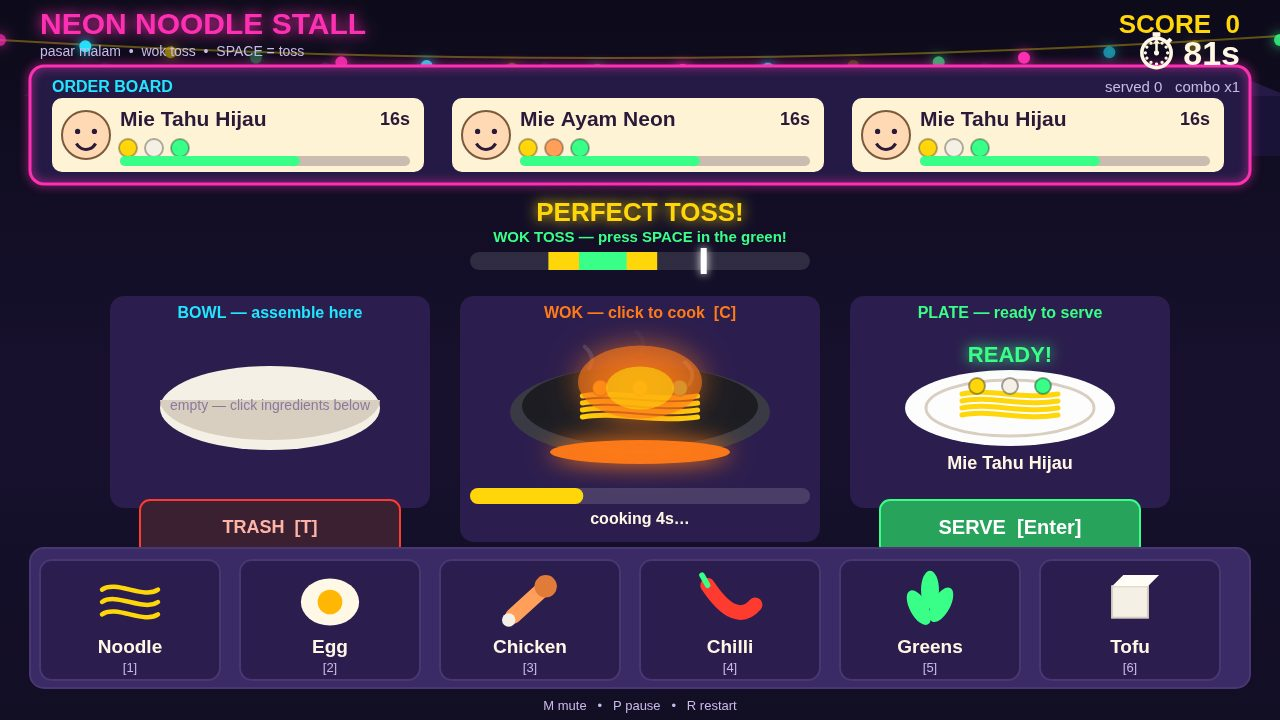
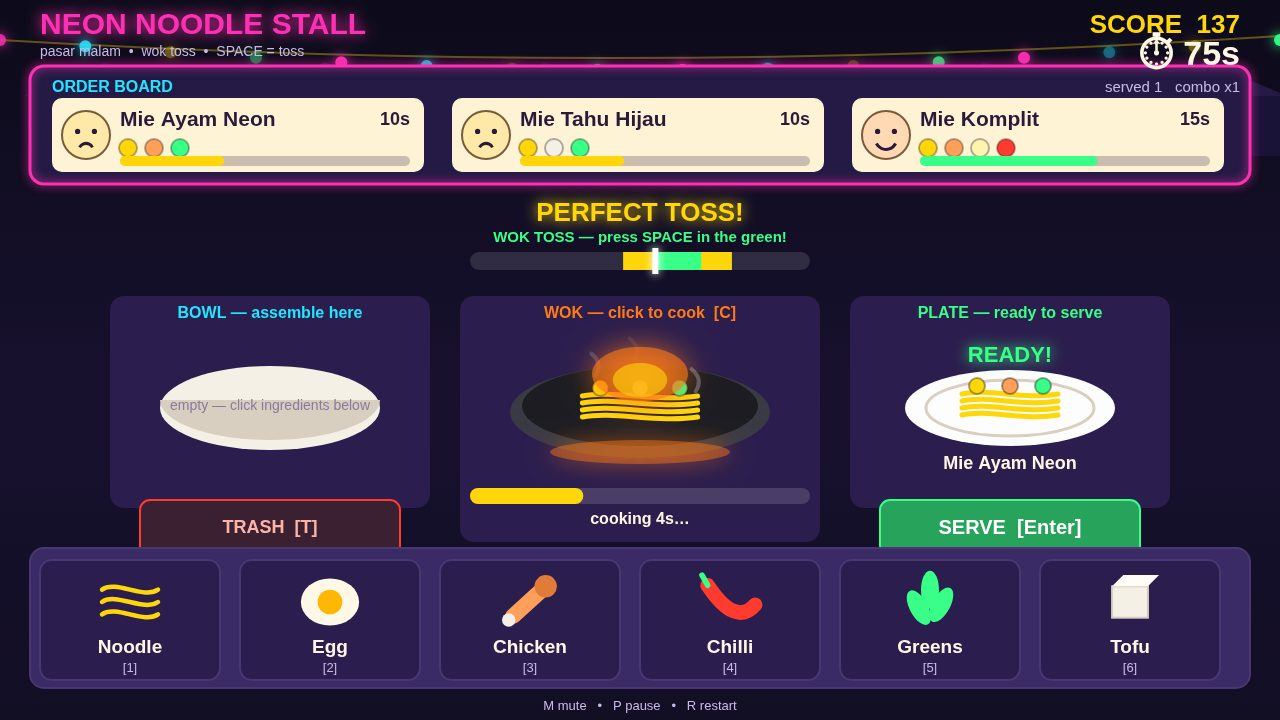
Shots: stage cover + serve through real serve rules (score 137/385), shrink toss flame so noodles stay visible

diff --git a/game/src/shots.js b/game/src/shots.js
@@ -35,17 +35,23 @@ function fillBoard(world) {
 }
 
 // Wide cover: 3 tickets, wok mid-cook with steam, one plated dish ready,
-// full HUD — all six required elements in one frame.
+// full HUD — all six required elements in one frame. Staged by playing
+// the real rules: serve dish one (score > 0), plate dish two, cook dish
+// three halfway with a perfect toss.
 function stageWide(world) {
   startGame(world);
   fillBoard(world);
   const first = world.tickets[0].recipeId;
   const second = world.tickets[1].recipeId;
-  cookRecipe(world, first, 6.5); // finishes cooking -> plated, ready to serve
-  const secondRecipe = RECIPE_BY_ID[second];
-  // Bowl the second dish in full, then cook it halfway: wok mid-cook with
-  // steam while the first dish waits on the plate.
-  for (const id of secondRecipe.ingredients) addIngredient(world, id);
+  const third = world.tickets[2].recipeId;
+  cookRecipe(world, first, 6.5); // finishes cooking -> plated
+  serve(world); // real serve: score > 0, served 1
+  fillBoard(world);
+  cookRecipe(world, second, 6.5); // finishes cooking -> plated, ready to serve
+  // Third dish mid-cook in the wok with steam + a perfect toss,
+  // while the second dish waits on the plate.
+  const thirdRecipe = RECIPE_BY_ID[third];
+  for (const id of thirdRecipe.ingredients) addIngredient(world, id);
   startCooking(world);
   stepSeconds(world, 3.0);
   perfectToss(world);
@@ -72,16 +78,21 @@ function stageAssembly(world) {
   return { screen: 'play', fx: { flame: 1 } };
 }
 
-// Serve: a plated dish, happy customer, score and combo on the board.
+// Serve: two dishes really served (score, served count and combo all
+// earned through the real serve rules), third dish plated and ready.
 function stageServe(world) {
   startGame(world);
   fillBoard(world);
   const first = world.tickets[0].recipeId;
-  cookRecipe(world, first, 6.5); // plated and ready
-  world.score = 240;
-  world.served = 2;
-  world.combo = 3;
-  world.bestCombo = 3;
+  const second = world.tickets[1].recipeId;
+  const third = world.tickets[2].recipeId;
+  cookRecipe(world, first, 6.5); // plated
+  serve(world); // served 1
+  fillBoard(world);
+  cookRecipe(world, second, 6.5); // plated
+  serve(world); // served 2, combo grows
+  fillBoard(world);
+  cookRecipe(world, third, 6.5); // plated and ready
   stepSeconds(world, 0.5);
   return { screen: 'play', fx: { flame: 0 } };
 }

diff --git a/game/src/render.js b/game/src/render.js
@@ -464,11 +464,12 @@ function drawWokStation(ctx, world, pointer, fx) {
     ctx.shadowColor = COLORS.neonOrange;
     ctx.shadowBlur = 30;
     ctx.beginPath();
-    ctx.ellipse(cx, cy - 30, 70 * fx.flame + 20, 44 * fx.flame + 10, 0, 0, Math.PI * 2);
+    // Flame sits above the noodle pile, not over it, so the dish stays visible.
+    ctx.ellipse(cx, cy - 38, 55 * fx.flame + 15, 32 * fx.flame + 8, 0, 0, Math.PI * 2);
     ctx.fill();
     ctx.fillStyle = COLORS.neonYellow;
     ctx.beginPath();
-    ctx.ellipse(cx, cy - 24, 40 * fx.flame + 10, 26 * fx.flame + 6, 0, 0, Math.PI * 2);
+    ctx.ellipse(cx, cy - 32, 32 * fx.flame + 8, 20 * fx.flame + 5, 0, 0, Math.PI * 2);
     ctx.fill();
     // The "PERFECT TOSS!" banner itself lives in drawHud's single
     // announcement lane, so it never collides with the wok header.
